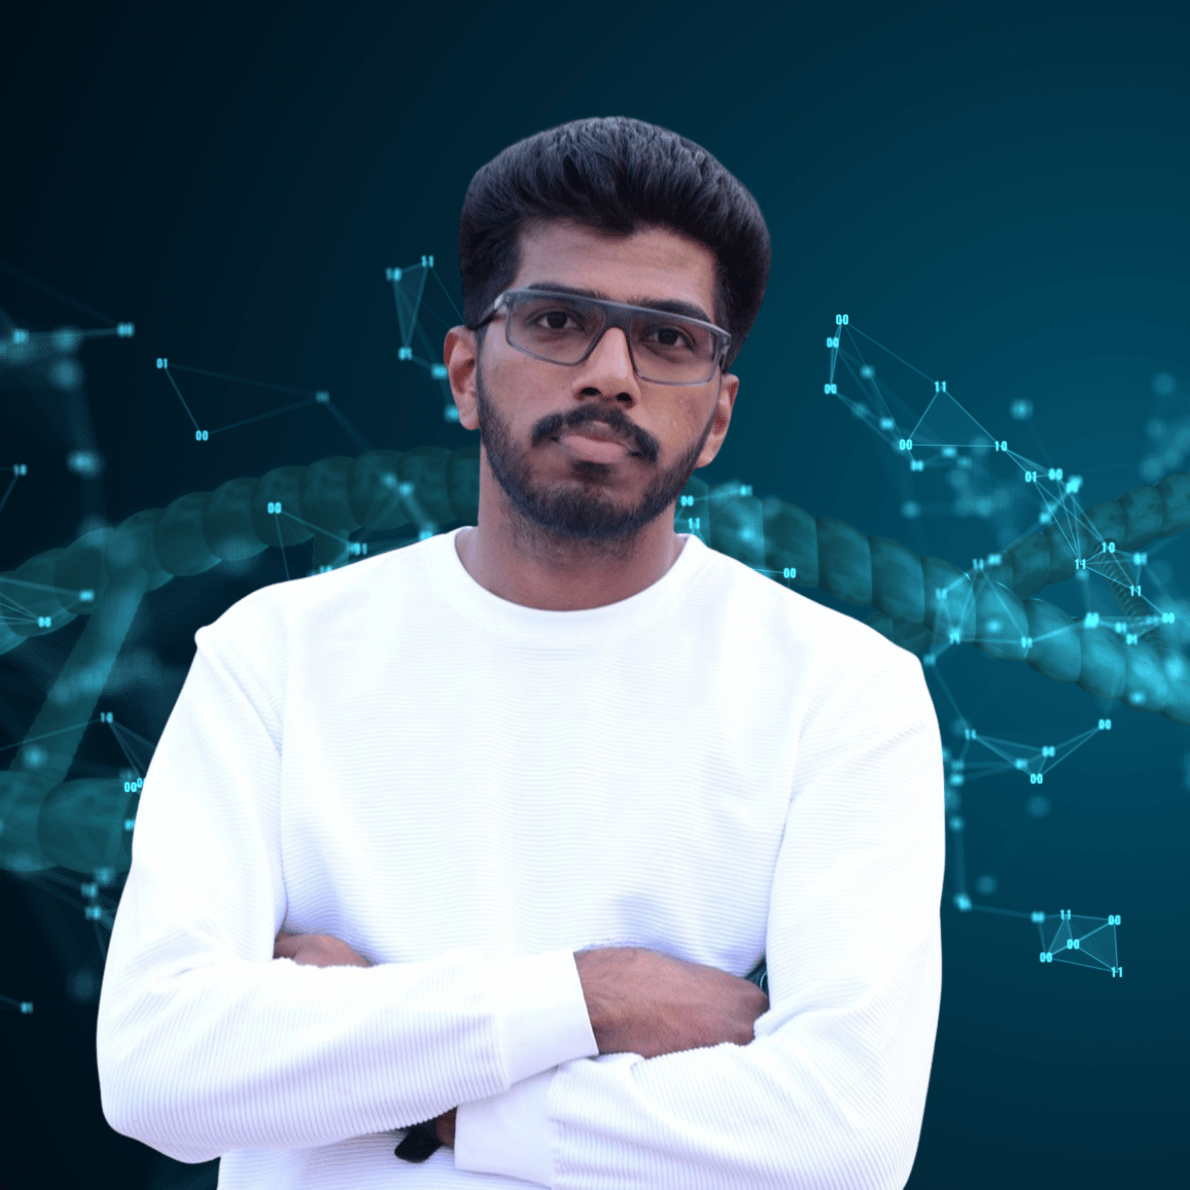
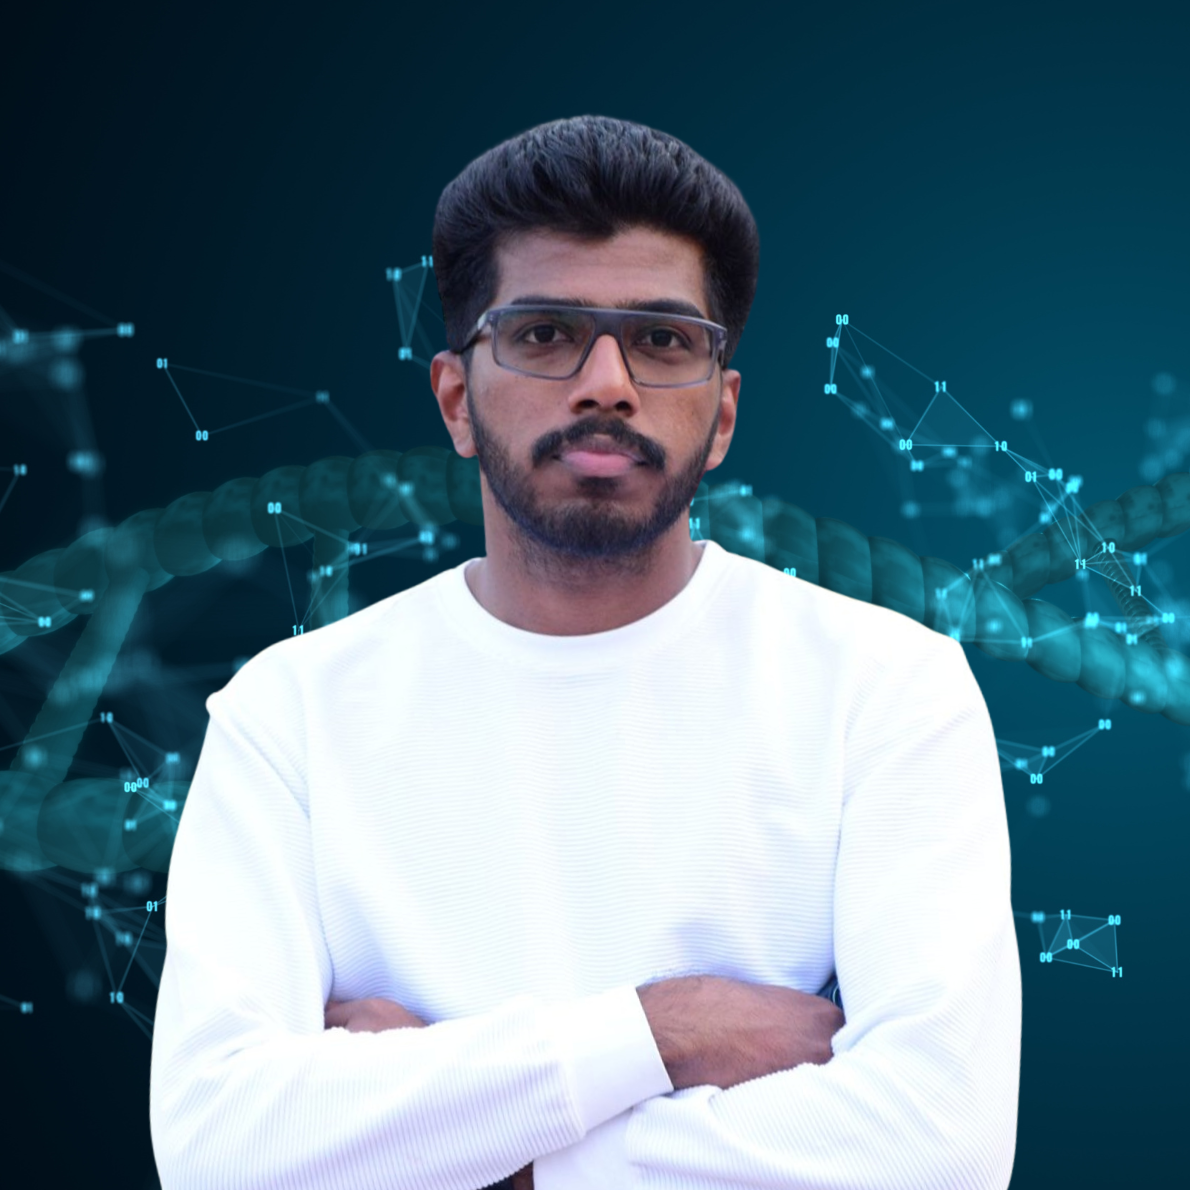
u

diff --git a/index.html b/index.html
@@ -77,7 +77,8 @@
                     <span class="text-indigo-200">Beginner to Expert Workshop</span>
                 </h1>
                 <p class="text-xl mb-8 text-indigo-100">
-                    This intensive 3-day workshop is designed to give participants a complete understanding of how to plan, execute, and report a Systematic review and Meta-analysis.
+                    This intensive 3-day workshop is designed to give participants a complete understanding of how to
+                    plan, execute, and report a Systematic review and Meta-analysis.
                 </p>
                 <div class="flex flex-col sm:flex-row space-y-4 sm:space-y-0 sm:space-x-4">
                     <a href="https://docs.google.com/forms/d/e/1FAIpQLSeuVkfTJDpSVfsJTPuuGDPNhcYl4F7pdqRUoL1yZANW7cYtvg/viewform?usp=sharing"
@@ -140,7 +141,8 @@
                         <i class="fas fa-calendar-alt text-4xl"></i>
                     </div>
                     <h3 class="text-xl font-bold mb-3">Date</h3>
-                    <p class="text-gray-600"><span class="text-red-600 font-medium mb-3">July 11,12,13 2025</span><br> 3-Days intensive program with 16 hours of live sessions and 20+ hours of
+                    <p class="text-gray-600"><span class="text-red-600 font-medium mb-3">July 11,12,13 2025</span><br>
+                        3-Days intensive program with 16 hours of live sessions and 20+ hours of
                         self-paced learning.</p>
                 </div>
 
@@ -149,15 +151,19 @@
                         <i class="fas fa-video text-4xl"></i>
                     </div>
                     <h3 class="text-xl font-bold mb-3"> Mode</h3>
-                    <p class="text-gray-600"><span class="text-red-600 font-medium mb-3">Online - Zoom</span> <br>All participants are requested to download and install the Zoom apk if you don’t have <a href="">Zoom</a></p>
+                    <p class="text-gray-600"><span class="text-red-600 font-medium mb-3">Online - Zoom</span> <br>All
+                        participants are requested to download and install the Zoom apk if you don’t have <a
+                            href="">Zoom</a></p>
                 </div>
 
                 <div class="bg-white p-8 rounded-xl shadow-md hover:shadow-xl transition duration-300">
                     <div class="text-indigo-600 mb-4">
                         <i class="fas fa-certificate text-4xl"></i>
                     </div>
-                    <h3 class="text-xl font-bold mb-3">Certification</h3> 
-                    <p class="text-gray-600">All participants will receive an<span class="text-red-600 font-medium mb-3">e-certificate</span>upon successful completion of the workshop</p>
+                    <h3 class="text-xl font-bold mb-3">Certification</h3>
+                    <p class="text-gray-600">All participants will receive an<span
+                            class="text-red-600 font-medium mb-3">e-certificate</span>upon successful completion
+                        of the workshop</p>
                 </div>
             </div>
         </div>
@@ -338,13 +344,16 @@
                 <!-- Speaker 1 -->
                 <div class="bg-white rounded-xl overflow-hidden shadow-md speaker-card transition duration-500">
                     <div class="overflow-hidden">
-                        <img src="assets/img/profiles/4.png" alt="Dr. Priya Patel" class="w-full h-full object-cover">
+                        <img src="assets/img/profiles/4.png" alt="Dr. Priya Patel"
+                            class="w-[14rem] rounded-full object-cover mx-auto my-6 border-4 border-white shadow-md">
                     </div>
                     <div class="p-6">
-                        <h3 class="text-xl font-bold mb-1">Prof. Delna N S</h3> <p class="text-indigo-600 font-medium mb-3">Director and Founder of BioDeskINDIA Labs</p>
-                        <p class="text-gray-600 mb-4"> <span style="font-weight: bold;">Head of the Department- Allied Health Sciences  </span> <br>
+                        <h3 class="text-xl font-bold mb-1">Prof. Delna N S</h3>
+                        <p class="text-indigo-600 font-medium mb-3">Director and Founder of BioDeskINDIA Labs</p>
+                        <p class="text-gray-600 mb-4"> <span style="font-weight: bold;">Head of the Department- Allied
+                                Health Sciences </span> <br>
                             Al-Azar Medical College and Super Speciality Hospital </p>
-                                                <div class="flex space-x-4">
+                        <div class="flex space-x-4">
                             <a href="https://www.linkedin.com/in/delna-ns-a8183215a?utm_source=share&utm_campaign=share_via&utm_content=profile&utm_medium=ios_app"
                                 class="text-blue-500 hover:text-blue-700">
                                 <i class="fab fa-linkedin text-xl"></i>
@@ -359,14 +368,16 @@
                 <!-- Speaker 2 -->
                 <div class="bg-white rounded-xl overflow-hidden shadow-md speaker-card transition duration-500">
                     <div class="overflow-hidden">
-                        <img src="assets/img/profiles/1.png" alt="Dr. Sarah Johnson" class="w-full h-full object-cover">
+                        <img src="assets/img/profiles/1.png" alt="Dr. Sarah Johnson"
+                            class="w-[14rem] rounded-full object-cover mx-auto my-6 border-4 border-white shadow-md">
                     </div>
                     <div class="p-6">
                         <h3 class="text-xl font-bold mb-1">Akshay V P
                         </h3>
                         <p class="text-indigo-600 font-medium mb-3">Co- Founder of BioDesk Research Ecosystem
                         </p>
-                        <p class="text-gray-600 mb-4" style="font-weight: bold;">Managing Editor at Library of Sciences Journal</p>
+                        <p class="text-gray-600 mb-4" style="font-weight: bold;">Managing Editor at Library of
+                            Sciences Journal</p>
                         <!-- <p class="text-gray-600 mb-4">With over 50 published systematic reviews, Dr. Johnson is a
                             leading expert in evidence synthesis methods.</p> -->
                         <div class="flex space-x-4">
@@ -385,12 +396,14 @@
                 <!-- Speaker 3 -->
                 <div class="bg-white rounded-xl overflow-hidden shadow-md speaker-card transition duration-500">
                     <div class="overflow-hidden">
-                        <img src="assets/img/profiles/3.png" alt="Dr. Priya Patel" class="w-full h-full object-cover">
+                        <img src="assets/img/profiles/3.png" alt="Dr. Priya Patel"
+                            class="w-[14rem] rounded-full object-cover mx-auto my-6 border-4 border-white shadow-md">
                     </div>
                     <div class="p-6">
                         <h3 class="text-xl font-bold mb-1">Dr Bhavit Bansal </h3>
                         <p class="text-indigo-600 font-medium mb-3">Senior Research Fellow</p>
-                        <p class="text-gray-600 mb-4"><span style="font-weight: bold;">Central Council for Research in Yoga & Naturopathy</span>
+                        <p class="text-gray-600 mb-4"><span style="font-weight: bold;">Central Council for Research in
+                                Yoga & Naturopathy</span>
                             Ministry of Ayush, Govt of India</p>
                         <div class="flex space-x-4">
                             <a href="https://www.linkedin.com/in/dr-bhavit-bansal-655011133?utm_source=share&utm_campaign=share_via&utm_content=profile&utm_medium=ios_app"
@@ -407,11 +420,12 @@
                 <!-- Speaker 4 -->
                 <div class="bg-white rounded-xl overflow-hidden shadow-md speaker-card transition duration-500">
                     <div class="overflow-hidden">
-                        <img src="assets/img/profiles/5.png" alt="Dr. Priya Patel" class="w-full h-full object-cover">
+                        <img src="assets/img/profiles/5.png" alt="Dr. Priya Patel"
+                            class="w-[14rem] rounded-full object-cover mx-auto my-6 border-4 border-white shadow-md">
                     </div>
                     <div class="p-6">
                         <h3 class="text-xl font-bold mb-1">Dr. Priya Patel</h3>
-                        <p class="text-indigo-600 font-medium mb-3">Co-founder - BioDeskResearch Ecosystem 
+                        <p class="text-indigo-600 font-medium mb-3">Co-founder - BioDeskResearch Ecosystem
                         </p>
                         <p class="text-gray-600 mb-4">Postdoctoral fellow at Reliance Life Sciences.</p>
                         <div class="flex space-x-4">
@@ -428,14 +442,15 @@
                 <!-- Speaker 5 -->
                 <div class="h-42 bg-white rounded-xl overflow-hidden shadow-md speaker-card transition duration-500">
                     <div class="overflow-hidden">
-                        <img src="assets/img/profiles/2.png" alt="Dr. Michael Chen" class="w-full h-full object-cover">
+                        <img src="assets/img/profiles/2.png" alt="Dr. Michael Chen"
+                            class="w-[14rem] rounded-full object-cover mx-auto my-6 border-4 border-white shadow-md">
                     </div>
                     <div class="p-6">
                         <h3 class="text-xl font-bold mb-1">Shubrith Shrivastava
                         </h3>
                         <p class="text-indigo-600 font-medium mb-3">Clinical Research Coordinator at BioDeskINDIA Labs
 
-                            </p>
+                        </p>
                         <p class="text-gray-600 mb-4">Managing Editor at Library of Sciences journal</p>
                         <div class="flex space-x-4">
                             <a href="#" class="text-blue-500 hover:text-blue-700">
@@ -452,14 +467,17 @@
                 <!-- Speaker 6 -->
                 <div class="h-42 bg-white rounded-xl overflow-hidden shadow-md speaker-card transition duration-500">
                     <div class="overflow-hidden">
-                        <img src="assets/img/profiles/6.png" alt="Dr. Michael Chen" class="w-full h-full object-cover">
+                        <img src="assets/img/profiles/6.png" alt="Dr. Michael Chen"
+                            class="w-[14rem] rounded-full object-cover mx-auto my-6 border-4 border-white shadow-md">
                     </div>
-                    <div class="p-6">Lavudya Saiprashanth
+                    <div class="p-6">
+                        <h3 class="text-xl font-bold mb-1">Lavudya Saiprashanth
                         </h3>
-                        <p class="text-indigo-600 font-medium mb-3">Research coordinator at BioDesk Research Ecosystem 
+                        <p class="text-indigo-600 font-medium mb-3">Research coordinator at BioDesk Research Ecosystem
 
                         </p>
-                        <p class="text-gray-600 mb-4">Specializing in applications of evidence based research practices in Biotechnology.</p>
+                        <p class="text-gray-600 mb-4">Specializing in applications of evidence based research practices
+                            in Biotechnology.</p>
                         <div class="flex space-x-4">
                             <a href="https://www.linkedin.com/in/lavudya-saiprashanth-202b77328?utm_source=share&utm_campaign=share_via&utm_content=profile&utm_medium=android_app"
                                 class="text-blue-500 hover:text-blue-700">
@@ -475,16 +493,21 @@
                 <!-- Speaker 7 -->
                 <div class="h-42 bg-white rounded-xl overflow-hidden shadow-md speaker-card transition duration-500">
                     <div class="overflow-hidden">
-                        <img src="assets/img/profiles/7.png" alt="Dr. Michael Chen" class="w-full h-full object-cover">
+                        <img src="assets/img/profiles/7.png" alt="Dr. Michael Chen"
+                            class="w-[14rem] rounded-full object-cover mx-auto my-6 border-4 border-white shadow-md">
                     </div>
-                    <div class="p-6">Sai Shashank Gudla
+                    <div class="p-6">
+                        <h3 class="text-xl font-bold mb-1">Sai Shashank Gudla
                         </h3>
-                        <p class="text-indigo-600 font-medium mb-3">Research Coordinator at BioDesk Research Ecosystem 
+                        <p class="text-indigo-600 font-medium mb-3">Research Coordinator at BioDesk Research Ecosystem
                         </p>
-                        <p class="text-gray-600 mb-4" style="font-weight: bold;">Doctor of Pharmacy (GIET School of Pharmacy, Andhra Pradesh)</p>
-                        <p class="text-gray-600 mb-4">Specializing in applications of Evidence based practices in Pharmacology and Biomedical Research.</p>
+                        <p class="text-gray-600 mb-4" style="font-weight: bold;">Doctor of Pharmacy (GIET School of
+                            Pharmacy, Andhra Pradesh)</p>
+                        <p class="text-gray-600 mb-4">Specializing in applications of Evidence based practices in
+                            Pharmacology and Biomedical Research.</p>
                         <div class="flex space-x-4">
-                            <a href="http://www.linkedin.com/in/sai-shashank-gudla" class="text-blue-500 hover:text-blue-700">
+                            <a href="http://www.linkedin.com/in/sai-shashank-gudla"
+                                class="text-blue-500 hover:text-blue-700">
                                 <i class="fab fa-linkedin text-xl"></i>
                             </a>
                             <!-- <a href="https://instagram.com/yourusername" target="_blank">
